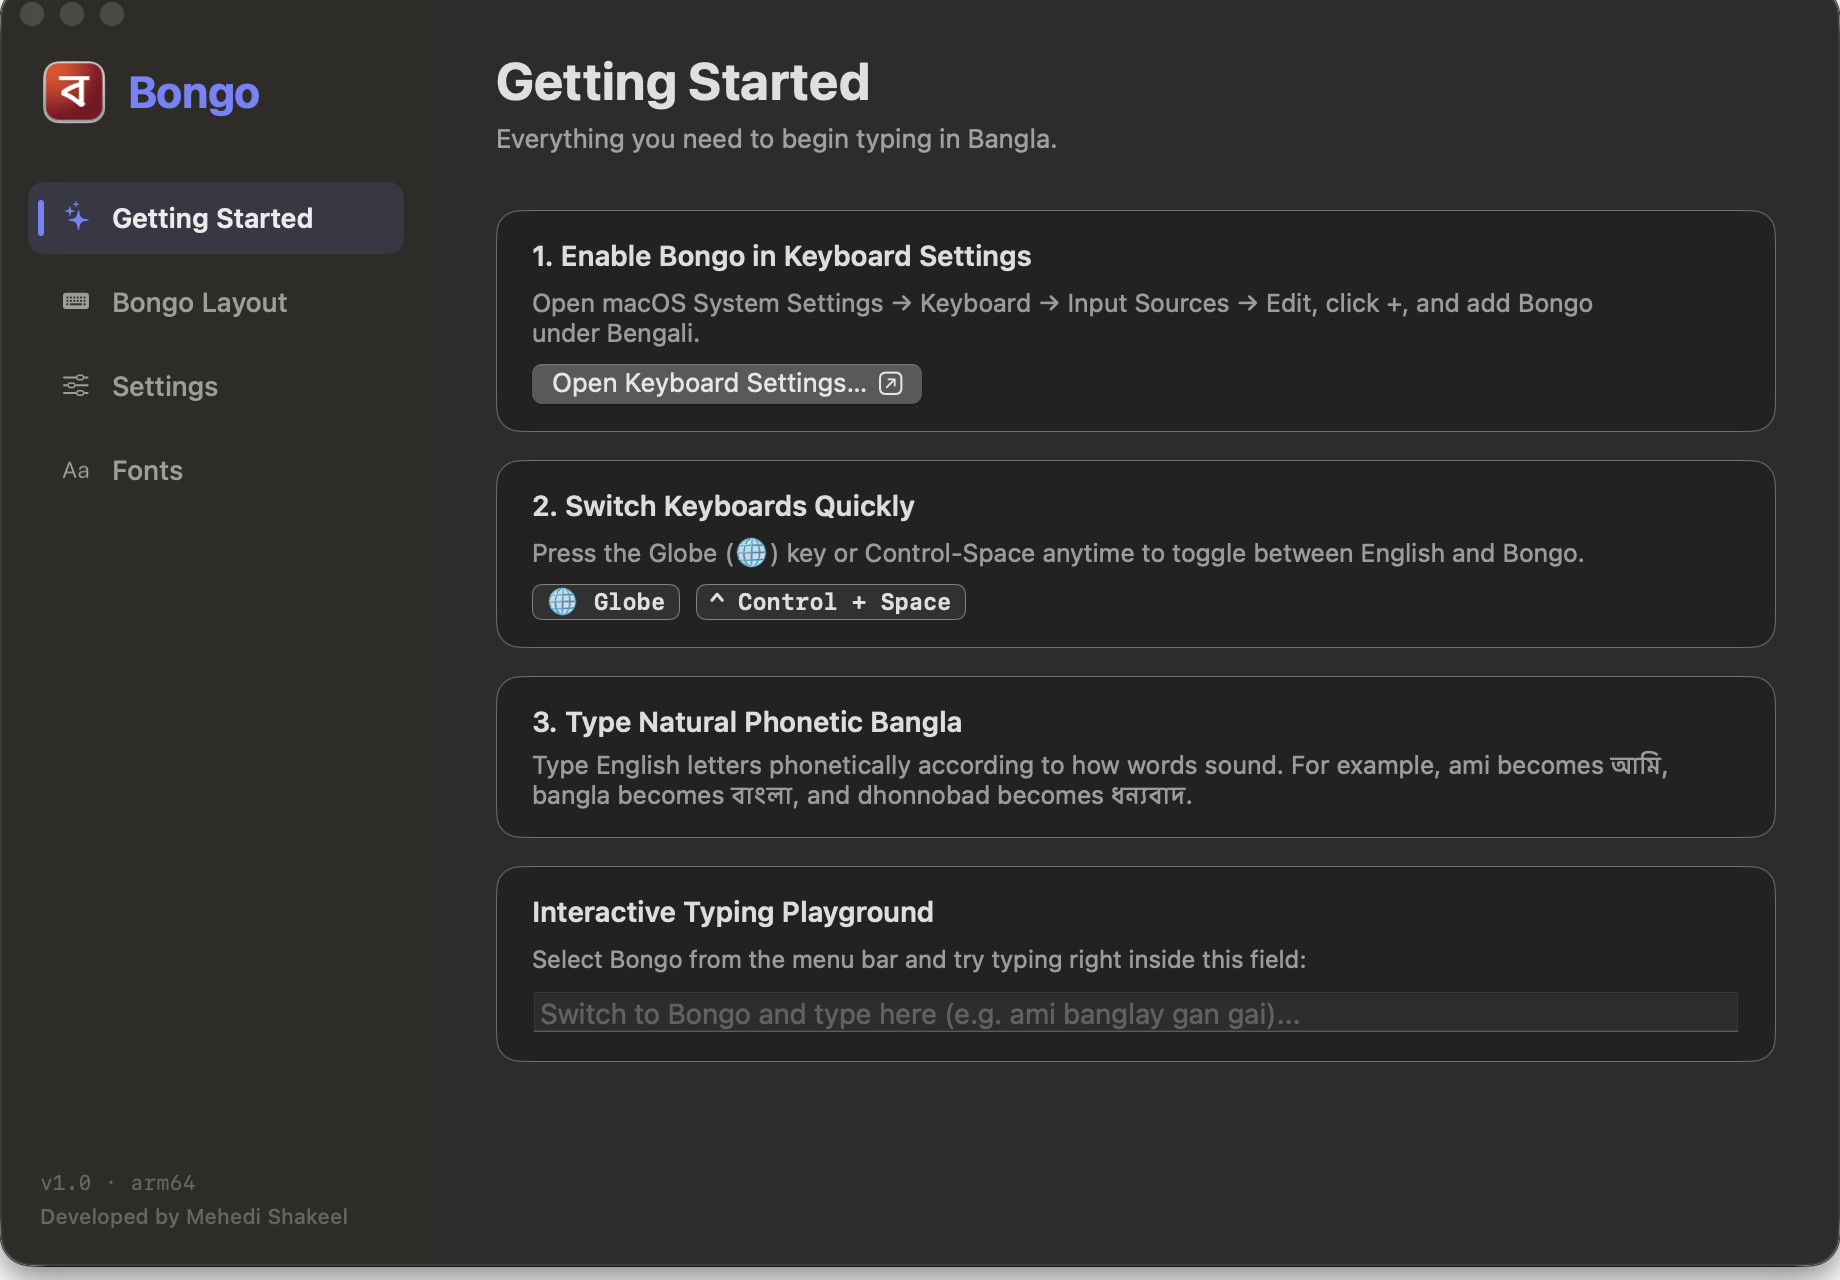
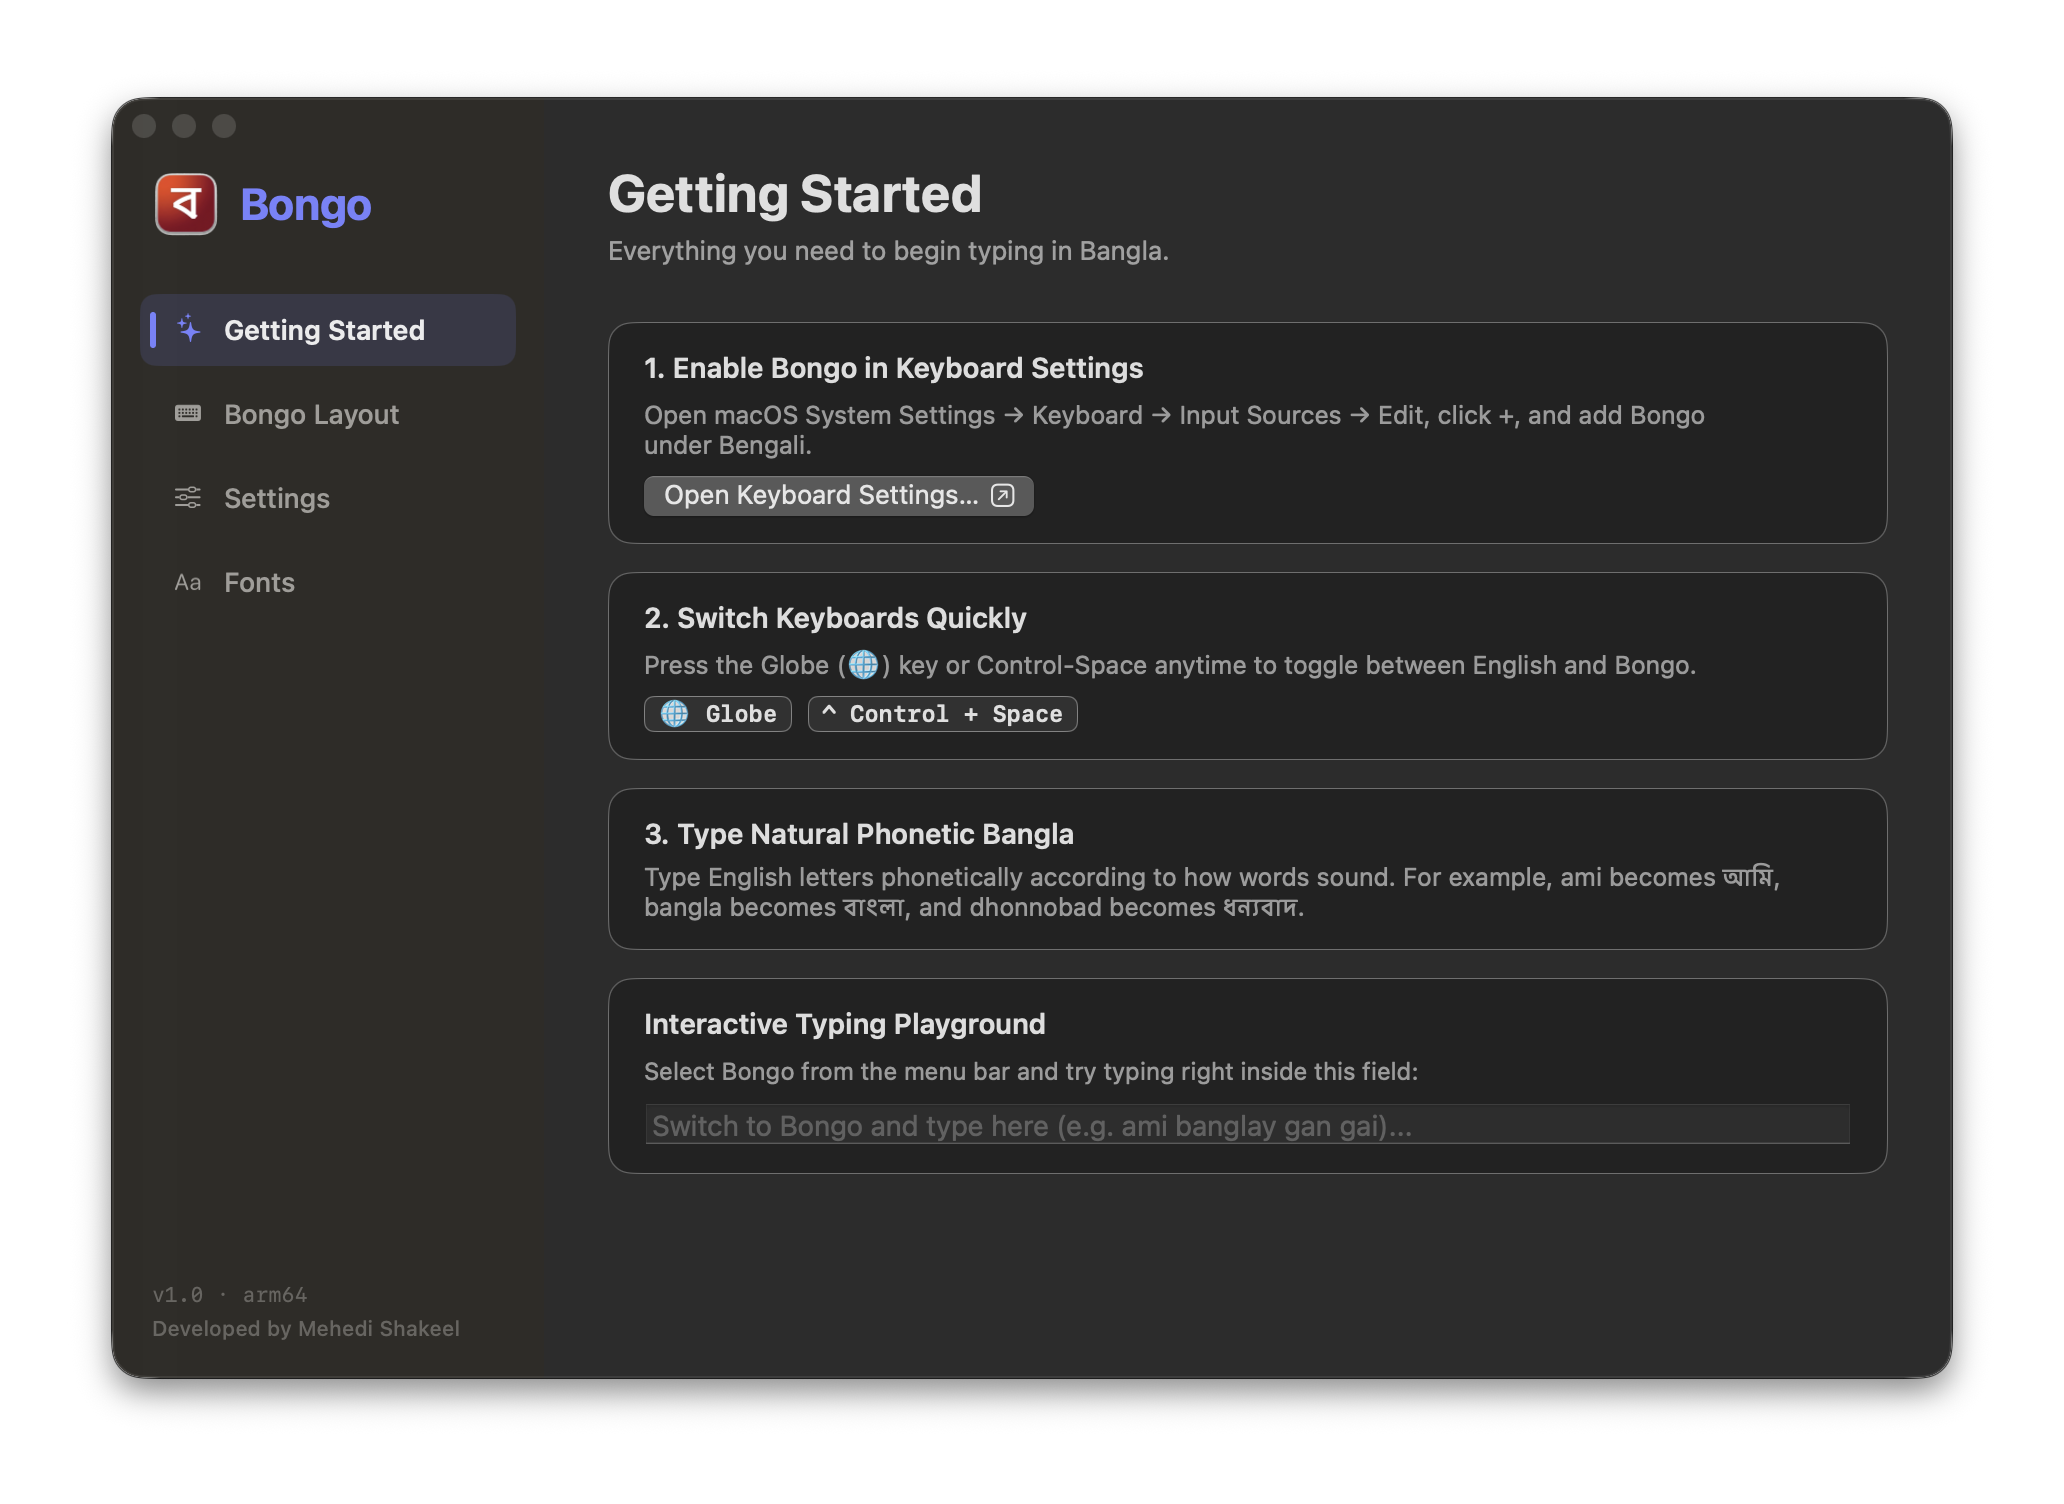
fix(docs): use exact uncropped user screenshots with matching 2064x1504 canvas and borderless frame

diff --git a/docs/index.html b/docs/index.html
@@ -721,7 +721,7 @@
                 <div class="tab-showcase-panel">
                     <div class="gallery-item active" id="tab-welcome" role="tabpanel">
                         <div class="mac-preview-frame">
-                            <img src="assets/bongo-getting-started.png?v=1.0.1" alt="Bongo Getting Started Window" class="preview-img" loading="lazy">
+                            <img src="assets/bongo-getting-started.png?v=1.0.2" alt="Bongo Getting Started Window" class="preview-img" loading="lazy">
                         </div>
                         <div class="preview-caption">
                             <h3 data-i18n="caption.welcome_title">Frictionless Onboarding</h3>
@@ -731,7 +731,7 @@
 
                     <div class="gallery-item" id="tab-layout" role="tabpanel">
                         <div class="mac-preview-frame">
-                            <img src="assets/bongo-layout.png?v=1.0.1" alt="Bongo Layout Key Map Window" class="preview-img" loading="lazy">
+                            <img src="assets/bongo-layout.png?v=1.0.2" alt="Bongo Layout Key Map Window" class="preview-img" loading="lazy">
                         </div>
                         <div class="preview-caption">
                             <h3 data-i18n="caption.layout_title">Visual Phonetic Key Map</h3>
@@ -741,7 +741,7 @@
 
                     <div class="gallery-item" id="tab-settings" role="tabpanel">
                         <div class="mac-preview-frame">
-                            <img src="assets/bongo-settings.png?v=1.0.1" alt="Bongo Settings Window" class="preview-img" loading="lazy">
+                            <img src="assets/bongo-settings.png?v=1.0.2" alt="Bongo Settings Window" class="preview-img" loading="lazy">
                         </div>
                         <div class="preview-caption">
                             <h3 data-i18n="caption.settings_title">3 Flexible Typing Modes</h3>
@@ -751,7 +751,7 @@
 
                     <div class="gallery-item" id="tab-fonts" role="tabpanel">
                         <div class="mac-preview-frame">
-                            <img src="assets/bongo-fonts.png?v=1.0.1" alt="Bongo Font Customization and Live Preview" class="preview-img" loading="lazy">
+                            <img src="assets/bongo-fonts.png?v=1.0.2" alt="Bongo Font Customization and Live Preview" class="preview-img" loading="lazy">
                         </div>
                         <div class="preview-caption">
                             <h3 data-i18n="caption.fonts_title">Customizable Bengali Typography</h3>

diff --git a/docs/styles.css b/docs/styles.css
@@ -1487,10 +1487,10 @@ kbd {
 
 .mac-preview-frame {
     background: transparent;
-    border: 1px solid var(--border-hairline);
-    border-radius: 18px;
-    box-shadow: 0 18px 46px rgba(0, 0, 0, 0.16), 0 2px 10px rgba(0, 0, 0, 0.08);
-    overflow: hidden;
+    border: none;
+    border-radius: 0;
+    box-shadow: none;
+    overflow: visible;
     display: flex;
     justify-content: center;
     align-items: center;
